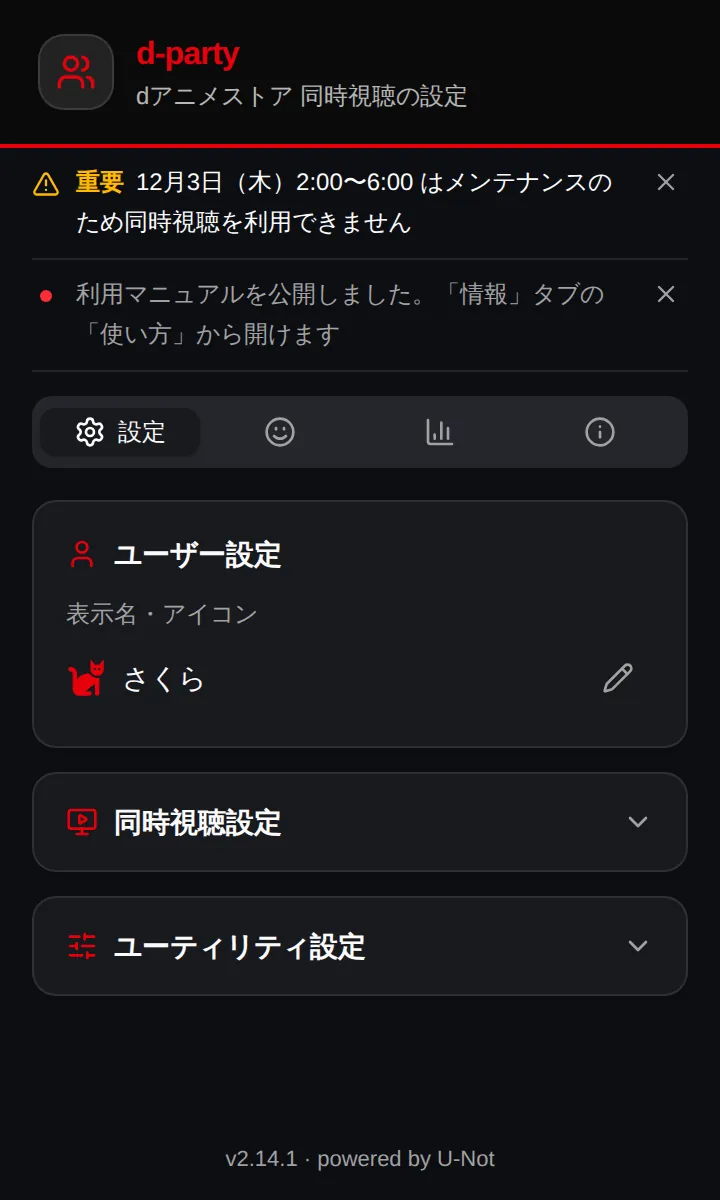
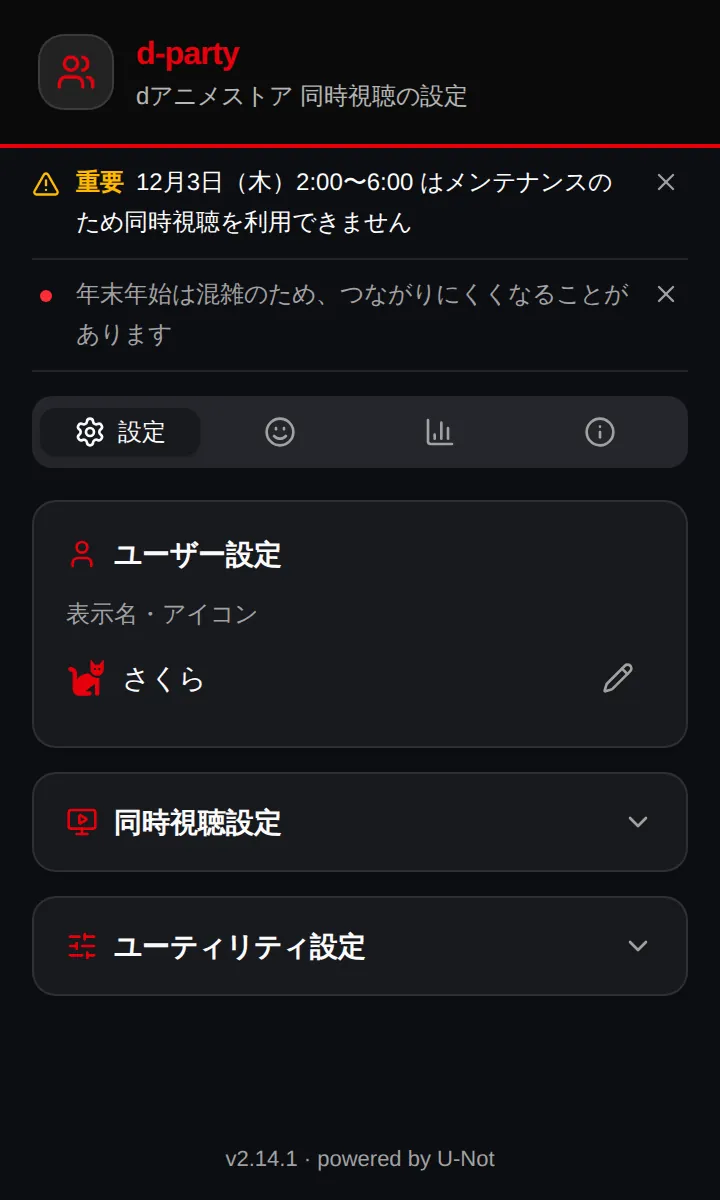
docs(frontend): マニュアルのスクショのお知らせを、マニュアル公開の告知でない文言にする
マニュアルの公開は運営からのお知らせで告知しない方針なので、撮影用の架空のお知らせ
（info）を「年末年始は混雑のため、つながりにくくなることがあります」に替え、
popup-announcements をダークモードで撮り直す。/docs/settings の画像の alt も合わせる。

Changed region(s): [[0.0917, 0.2158, 0.55, 0.3083], [0.55, 0.2158, 0.7639, 0.2775], [0.7944, 0.2158, 0.8556, 0.2775]]

diff --git a/extension/src/manual/fixtures.tsx b/extension/src/manual/fixtures.tsx
@@ -33,19 +33,20 @@ export const USERS: User[] = [SAKURA, TAKESHI, YUUKI];
 
 /**
  * 運営からのアナウンス（架空）。撮影日 2026-11-27（金）の翌週のメンテナンス予告と、
- * このマニュアルの公開のお知らせ。本文は backend の上限（60 文字）に収める。
+ * 年末年始の混雑の短いお知らせ。マニュアルの公開はお知らせで告知しない方針なので、
+ * マニュアルやまだない機能の告知は書かない。本文は backend の上限（60 文字）に収める。
  */
 export const MAINTENANCE_NOTICE: Announcement = {
   id: 101,
   level: "warning",
   message: "12月3日（木）2:00〜6:00 はメンテナンスのため同時視聴を利用できません",
 };
-export const MANUAL_NOTICE: Announcement = {
+export const CONGESTION_NOTICE: Announcement = {
   id: 102,
   level: "info",
-  message: "利用マニュアルを公開しました。「情報」タブの「使い方」から開けます",
+  message: "年末年始は混雑のため、つながりにくくなることがあります",
 };
-export const MANUAL_ANNOUNCEMENTS: Announcement[] = [MAINTENANCE_NOTICE, MANUAL_NOTICE];
+export const MANUAL_ANNOUNCEMENTS: Announcement[] = [MAINTENANCE_NOTICE, CONGESTION_NOTICE];
 
 /** `announcements` をすぐ返す `load`（何も渡さなければアナウンスなし）。 */
 export function announcementsOf(

diff --git a/frontend/src/app/docs/settings/page.tsx b/frontend/src/app/docs/settings/page.tsx
@@ -39,7 +39,7 @@ export default function SettingsPage(): React.JSX.Element {
         </p>
         <DocFigure
           name="popup-announcements"
-          alt="ポップアップのタブの上に、「重要」のメンテナンスのお知らせと、利用マニュアル公開のお知らせの 2 行が表示されている"
+          alt="ポップアップのタブの上に、「重要」のメンテナンスのお知らせと、年末年始の混雑のお知らせの 2 行が表示されている"
           caption="タブの上に表示される運営からのお知らせ"
           maxWidth={360}
         />
